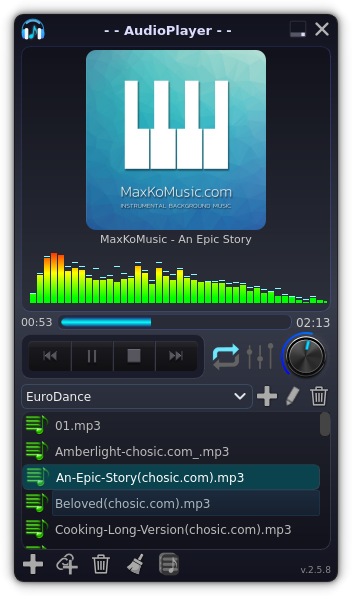
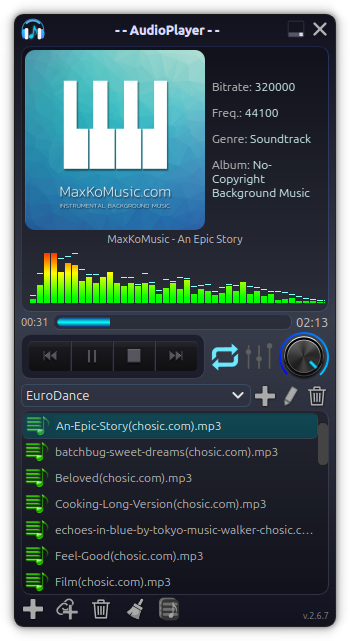
The graphical interface has been moved to another library, PySide6.

diff --git a/mainwindow.py b/mainwindow.py
@@ -42,14 +42,20 @@ class Ui_MainWindow(object):
         MainWindow.setWindowFlags(MainWindow.windowFlags() & ~QtCore.Qt.WindowMaximizeButtonHint)
         MainWindow.setWindowTitle("AudioPlayer")
         MainWindow.setContentsMargins(14, 14, 14, 14)
+        #MainWindow.setContentsMargins(0, 0, 0, 0)
+        #self.main_widget = QtWidgets.QWidget(MainWindow)
+        #self.main_widget.setObjectName('main_widget')
+        #self.main_layout = QtWidgets.QVBoxLayout(self.main_widget)
+        #self.main_layout.setContentsMargins(14, 14, 14, 14)
+
 
         # create central widget and main vertical layout
-        effect = QtWidgets.QGraphicsDropShadowEffect()
-        effect.setColor(QtGui.QColor(0, 0, 0, 255))
-        effect.setOffset(0)
-        effect.setBlurRadius(18)
         self.centralwidget = QtWidgets.QWidget(MainWindow)
         self.centralwidget.setObjectName("centralwidget")
+        effect = QtWidgets.QGraphicsDropShadowEffect(self.centralwidget)
+        effect.setColor(QtGui.QColor(0, 0, 0, 200))
+        effect.setOffset(0, 0)
+        effect.setBlurRadius(18)
         self.centralwidget.setGraphicsEffect(effect)
         self.central_widget_vlo = QtWidgets.QVBoxLayout(self.centralwidget)
         self.central_widget_vlo.setSpacing(2)
@@ -286,6 +292,7 @@ class Ui_MainWindow(object):
         self.bottom_widget.setObjectName('bottom_widget')
         self.bottom_widget.setCursor(QtGui.QCursor(QtCore.Qt.SizeVerCursor))
         self.central_widget_vlo.addWidget(self.bottom_widget)
+        #self.main_layout.addWidget(self.centralwidget)
         MainWindow.setCentralWidget(self.centralwidget)
 
         self.retranslateUi(MainWindow)

diff --git a/AudioPlayer.py b/AudioPlayer.py
@@ -920,6 +920,13 @@ class AudioPlayer(QtWidgets.QMainWindow):
                 return
         super().changeEvent(event)
 
+    #def showEvent(self, event):
+    #    shadow = QtWidgets.QGraphicsDropShadowEffect(self.ui.centralwidget)
+    #    shadow.setBlurRadius(18)
+    #    shadow.setColor(QtGui.QColor(0, 0, 0, 220))  # Альфа 100-120 (255 вызовет клиппинг)
+    #    shadow.setOffset(0, 0)  # В Qt6 обязательно два параметра
+    #    self.ui.centralwidget.setGraphicsEffect(shadow)
+
 
 def main():
     os.environ["QT_AUTO_SCREEN_SCALE_FACTOR"] = "1"

diff --git a/lang.py b/lang.py
@@ -22,7 +22,10 @@ class Lang:
 
     def tr(self, s):
         if s in self.dic:
-            return self.dic[s][self.lang]
+            if self.lang in self.dic[s]:
+                return self.dic[s][self.lang]
+            else:
+                return next(iter(self.dic[s].values()), None)
         else:
             return s
 
